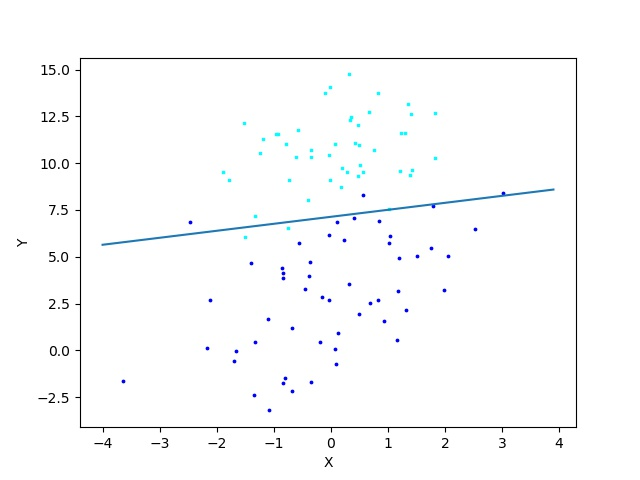
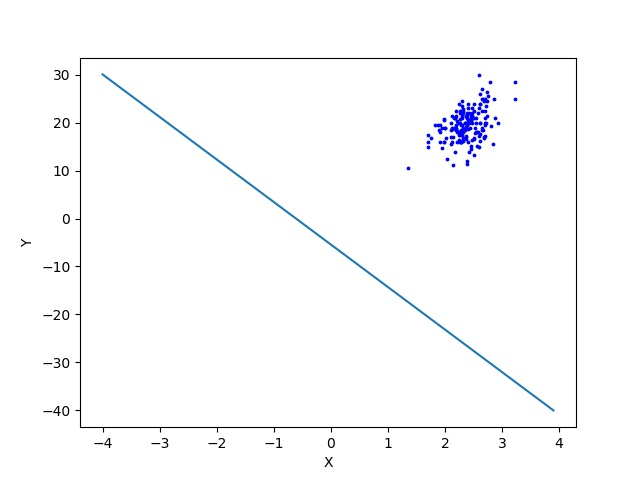
修复了K均值聚类的bug，用Wine数据集测试了K均值聚类、Logistic回归

diff --git a/LogisticRegression.py b/LogisticRegression.py
@@ -4,24 +4,32 @@ import matplotlib.pyplot as plt
 import random as rd
 
 
-def loadDataSet():
+def loadRegDataSet(file, delim=','):
+    fp = open(file)
+    strArr = fp.readlines()
+    data = []
+    for line in strArr[1:]:
+        words = line.strip().split(delim)
+        data.append(np.array(words[:-1], dtype=float))
+    return data
 
+
+def loadClsDataSet(file, delim=','):
+    fp = open(file)
+    strArr = fp.readlines()
     data, labels = [], []
-    file = open('./dataset/LR.txt')
-    for line in file.readlines():
-        words = line.strip().split()
-        data.append([1.0, float(words[0]), float(words[1])])
-        labels.append(int(words[2]))
-
+    for line in strArr[1:]:
+        words = line.strip().split(delim)
+        data.append(np.array(words[1:], dtype=float))
+        labels.append(np.int(words[0]))
     return data, labels
 
 
 def sigmoid(X):
-    return 1.0/(1+np.exp(-X))
+    return 1.0 / (1 + np.exp(-X))
 
 
 def BatchGradAscent(data, labels):
-
     m, n = np.shape(data)
 
     alpha = 0.001
@@ -30,7 +38,7 @@ def BatchGradAscent(data, labels):
     for k in range(maxCycles):
         H = sigmoid(data * W)
         E = labels - H
-        W = W + alpha*data.transpose()*E
+        W = W + alpha * data.transpose() * E
 
     return W
 
@@ -47,14 +55,14 @@ def StocGradAscent(data, labels, num_iter=500):
 
     data_mat = np.array(data)
     m, n = np.shape(data_mat)
-    alpha = 0.01 # 程序清单5-3 随机梯度上升算法
+    alpha = 0.01  # 程序清单5-3 随机梯度上升算法
     weights = np.ones(n)
     for j in range(num_iter):
         for i in range(m):
             # 程序清单5-4 改进的随机梯度上升算法
-            alpha = 4 / (1.0 + j + i) + 0.01 # alpha每次迭代时需要调整
-            rand_index = int(rd.uniform(0, len(labels))) # 随机选取更新
-            h = sigmoid(sum(data_mat[rand_index]*weights))
+            alpha = 4 / (1.0 + j + i) + 0.01  # alpha每次迭代时需要调整
+            rand_index = int(rd.uniform(0, len(labels)))  # 随机选取更新
+            h = sigmoid(sum(data_mat[rand_index] * weights))
             e = labels[rand_index] - h
             weights = weights + alpha * e * data_mat[rand_index]
 
@@ -69,7 +77,7 @@ def classifyVector(X, weights):
     :param weights: 权重向量
     :return: 分类标签
     """
-    prob = sigmoid(sum(X*weights))
+    prob = sigmoid(sum(X * weights))
     if prob > 0.5:
         return 1.0
     else:
@@ -83,16 +91,16 @@ def plotBestFit(W):
     :return: 无
     """
 
-    data, labels = loadDataSet()
+    data, labels = loadClsDataSet('./dataset/wine/wine.data', ',')
     x0, y0 = [], []
     x1, y1 = [], []
     for i in range(len(labels)):
         if int(labels[i]) == 0:
-            x0.append(data[i][1])
-            y0.append(data[i][2])
+            x0.append(data[i][2])
+            y0.append(data[i][3])
         else:
-            x1.append(data[i][1])
-            y1.append(data[i][2])
+            x1.append(data[i][2])
+            y1.append(data[i][3])
 
     fig = plt.figure()
     # plot raw data
@@ -104,10 +112,10 @@ def plotBestFit(W):
     for i in range(len(labels)):
         if classifyVector(data[i], W) != labels[i]:
             error += 1
-    print("error rate:%.2f"%(error/len(labels)))
+    print("error rate:%.2f" % (error / len(labels)))
     # plot regression line
     x = np.arange(-4.0, 4.0, 0.1)
-    y = (-W[0]-W[1]*x)/W[2]
+    y = (-W[0] - W[3] * x) / W[2]
     x = x.reshape((80, 1))
     y = y.reshape((80, 1))
     ax.plot(x, y)
@@ -118,6 +126,7 @@ def plotBestFit(W):
     plt.show()
 
 
-data, labels = loadDataSet()
-W = StocGradAscent(data, labels, 40)
+data, labels = loadClsDataSet('./dataset/wine/wine.data', ',')
+W = StocGradAscent(data, labels, 400)
+print(W)
 plotBestFit(W)

diff --git a/kMeans.py b/kMeans.py
@@ -1,17 +1,24 @@
 import numpy as np
 
 
-def loadDataSet(file):
+def loadClsDataSet(file, delim=','):
+    """
+    加载分类数据集
 
-    dataMat = []
-    fin = open(file)
-
-    for line in fin.readlines():
-        words = line.strip().split()
-        floatLine = [float(words[0]), float(words[1])]
-        dataMat.append(floatLine)
-
-    return dataMat
+    :param file: 文件名
+    :param delim: 数值分隔符
+    :return: 数据集
+    """
+    fp = open(file)
+    strArr = fp.readlines()
+    data, labels = [], []
+    for line in strArr[1:]:
+        words = line.strip().split(delim)
+        data.append(np.array(words[1:], dtype=float))
+        labels.append(np.int(words[0]))
+    data = np.array(data)
+    labels = np.array(labels)
+    return data, labels
 
 
 def distEuclid(X, Y):
@@ -25,34 +32,32 @@ def distEuclid(X, Y):
     return np.sqrt(np.sum(np.power(np.subtract(X, Y), 2)))
 
 
-def randomCenter(dataSet, k):
+def randomCenter(data_set, k):
     """
     程序清单10-1 K-均值聚类支持函数
 
-    :param dataSet: 数据集
-    :param k:
-    :return:
+    :param data_set: 数据集
+    :param k: 随机质心数目
+    :return: k个随机生成的质心
     """
-    m, n = np.shape(dataSet)
 
-    centroids = np.zeros((k, n))
+    m, n = np.shape(data_set)
+    center = np.zeros((k, n))
 
     for j in range(n):
-        minJ = np.min(dataSet, axis=j)
-        rangeJ = np.max(np.array(dataSet), axis=j) - minJ
-        print(rangeJ)
-        rangeJ = np.float(rangeJ)
-        centroids[:, j] = minJ + rangeJ * np.random.rand(k, 1)
+        minJ = np.min(data_set[:, j])
+        rangeJ = np.float(np.max(data_set[:, j]) - minJ)
+        center[:, j] = minJ + rangeJ * np.random.rand(1, k)
 
-    return centroids
+    return center
 
 
 def kMeans(dataSet, k, measure=distEuclid, createCenter=randomCenter):
     """
-    K-Means algorithm
+    K-均值算法
 
     :param dataSet: 数据集
-    :param k: 分类数
+    :param k: 簇数
     :param measure: 测度
     :param createCenter: 初始聚类中心
     :return: 聚类中心，簇划分
@@ -72,27 +77,23 @@ def kMeans(dataSet, k, measure=distEuclid, createCenter=randomCenter):
             for j in range(k):
                 distJI = measure(centroids[j, :], dataSet[i, :])
                 if distJI < minDist:
-                    minDist = distJI, minIndex = j
+                    minDist, minIndex = distJI, j
 
+            # 簇划分发生变化
             if clusterAssign[i][0] != minIndex:
                 clusterChanged = True
             clusterAssign[i, :] = minIndex, minDist ** 2
 
-        print(centroids)
         # 更新质心的位置
-        for center in centroids:
-            pointInCluster = dataSet[np.nonzero(clusterAssign[:,0] == center)]
-            centroids[center, :] = np.mean(pointInCluster, axis=0)
+        for i in range(k):
+            pointInCluster = dataSet[np.nonzero(clusterAssign[:, 0] == i)[0]]
+            centroids[i, :] = np.mean(pointInCluster, axis=0)
 
     return centroids, clusterAssign
 
 
-dist = distEuclid([0.1, 0.1, 0.1], [0.3, 0.3, 0.3])
-print(dist)
-
-data = loadDataSet('./dataset/LR.txt')
-print(data)
-
-centroids, clusterAssign = kMeans(data, 4)
+# 在wine数据集上做聚类测试
+data, labels = loadClsDataSet('./dataset/wine/wine.data')
+centroids, clusterAssign = kMeans(data, 3)
 print(centroids)
 print(clusterAssign)

diff --git a/KNearestNeighbour.py b/KNearestNeighbour.py
@@ -1,31 +1,27 @@
-import numpy as np
 import operator
+import numpy as np
 
-from StatModal import StatModal
 
-
-class KNN(StatModal):
+class KNN():
     def __init__(self, n_neighbours):
         self.dataSet = None
         self.n_neighbours = n_neighbours
 
-    def fit(self, dataSet):
-        self.dataSet = dataSet
+    def fit(self, data_set):
+        self.dataSet = data_set
 
     def predict(self, X):
         """
         K Nearest Neighbour algorithm
 
         :param X:
-        :param dataSet: array of dimensions m*n
-        :param labels: training labels of
-        :param k: the number of nearest neighbour
         :return: which class X belongs to
         """
-        dataSetSize = self.dataSet.shape[0]
+        data, labels = self.dataSet
+        m, n = np.shape(data)
 
         # calculate distances between X and object in dataSet
-        diffMat = np.tile(X, (dataSetSize, 1)) - self.dataSet
+        diffMat = np.tile(X, (m, 1)) - data
         sqDiffMat = diffMat ** 2
         sqDistances = sqDiffMat.sum(axis=1)
         distances = sqDistances ** 0.5
@@ -59,6 +55,25 @@ def loadDataSet():
     return group, labels
 
 
-data, labels = loadDataSet()
-label = KNN((0.1, 0.1), data, labels, 3)
-print(label)
+def loadFile(file, delim=' '):
+    fp = open(file)
+    strArr = fp.readlines()
+    data, labels = [], []
+    for line in strArr:
+        words = line.strip().split(delim)
+        data.append(np.array(words[1:], dtype=float))
+        labels.append(words[0])
+    return data, labels
+
+
+data, labels = loadFile('dataset/wine/wine.data', delim=',')
+X = [
+    14.37, 11.95, 12.5, 16.8, 113,
+    13.85, 13.49, 10.24, 12.18, 17.8,
+    10.86, 13.45, 1480
+]
+
+clf = KNN(12)
+clf.fit((data, labels))
+result = clf.predict(X)
+print('The prediction of X is ', result)

diff --git a/PCA.py b/PCA.py
@@ -4,7 +4,7 @@ import numpy as np
 def loadDataSet(file, delim=' '):
     fp = open(file)
     strArr = [line.strip().split(delim) for line in fp.readlines()]
-    fltArr = [map(float, line) for line in strArr]
+    fltArr = [np.array(line, dtype=float) for line in strArr]
     return np.mat(fltArr)
 
 
